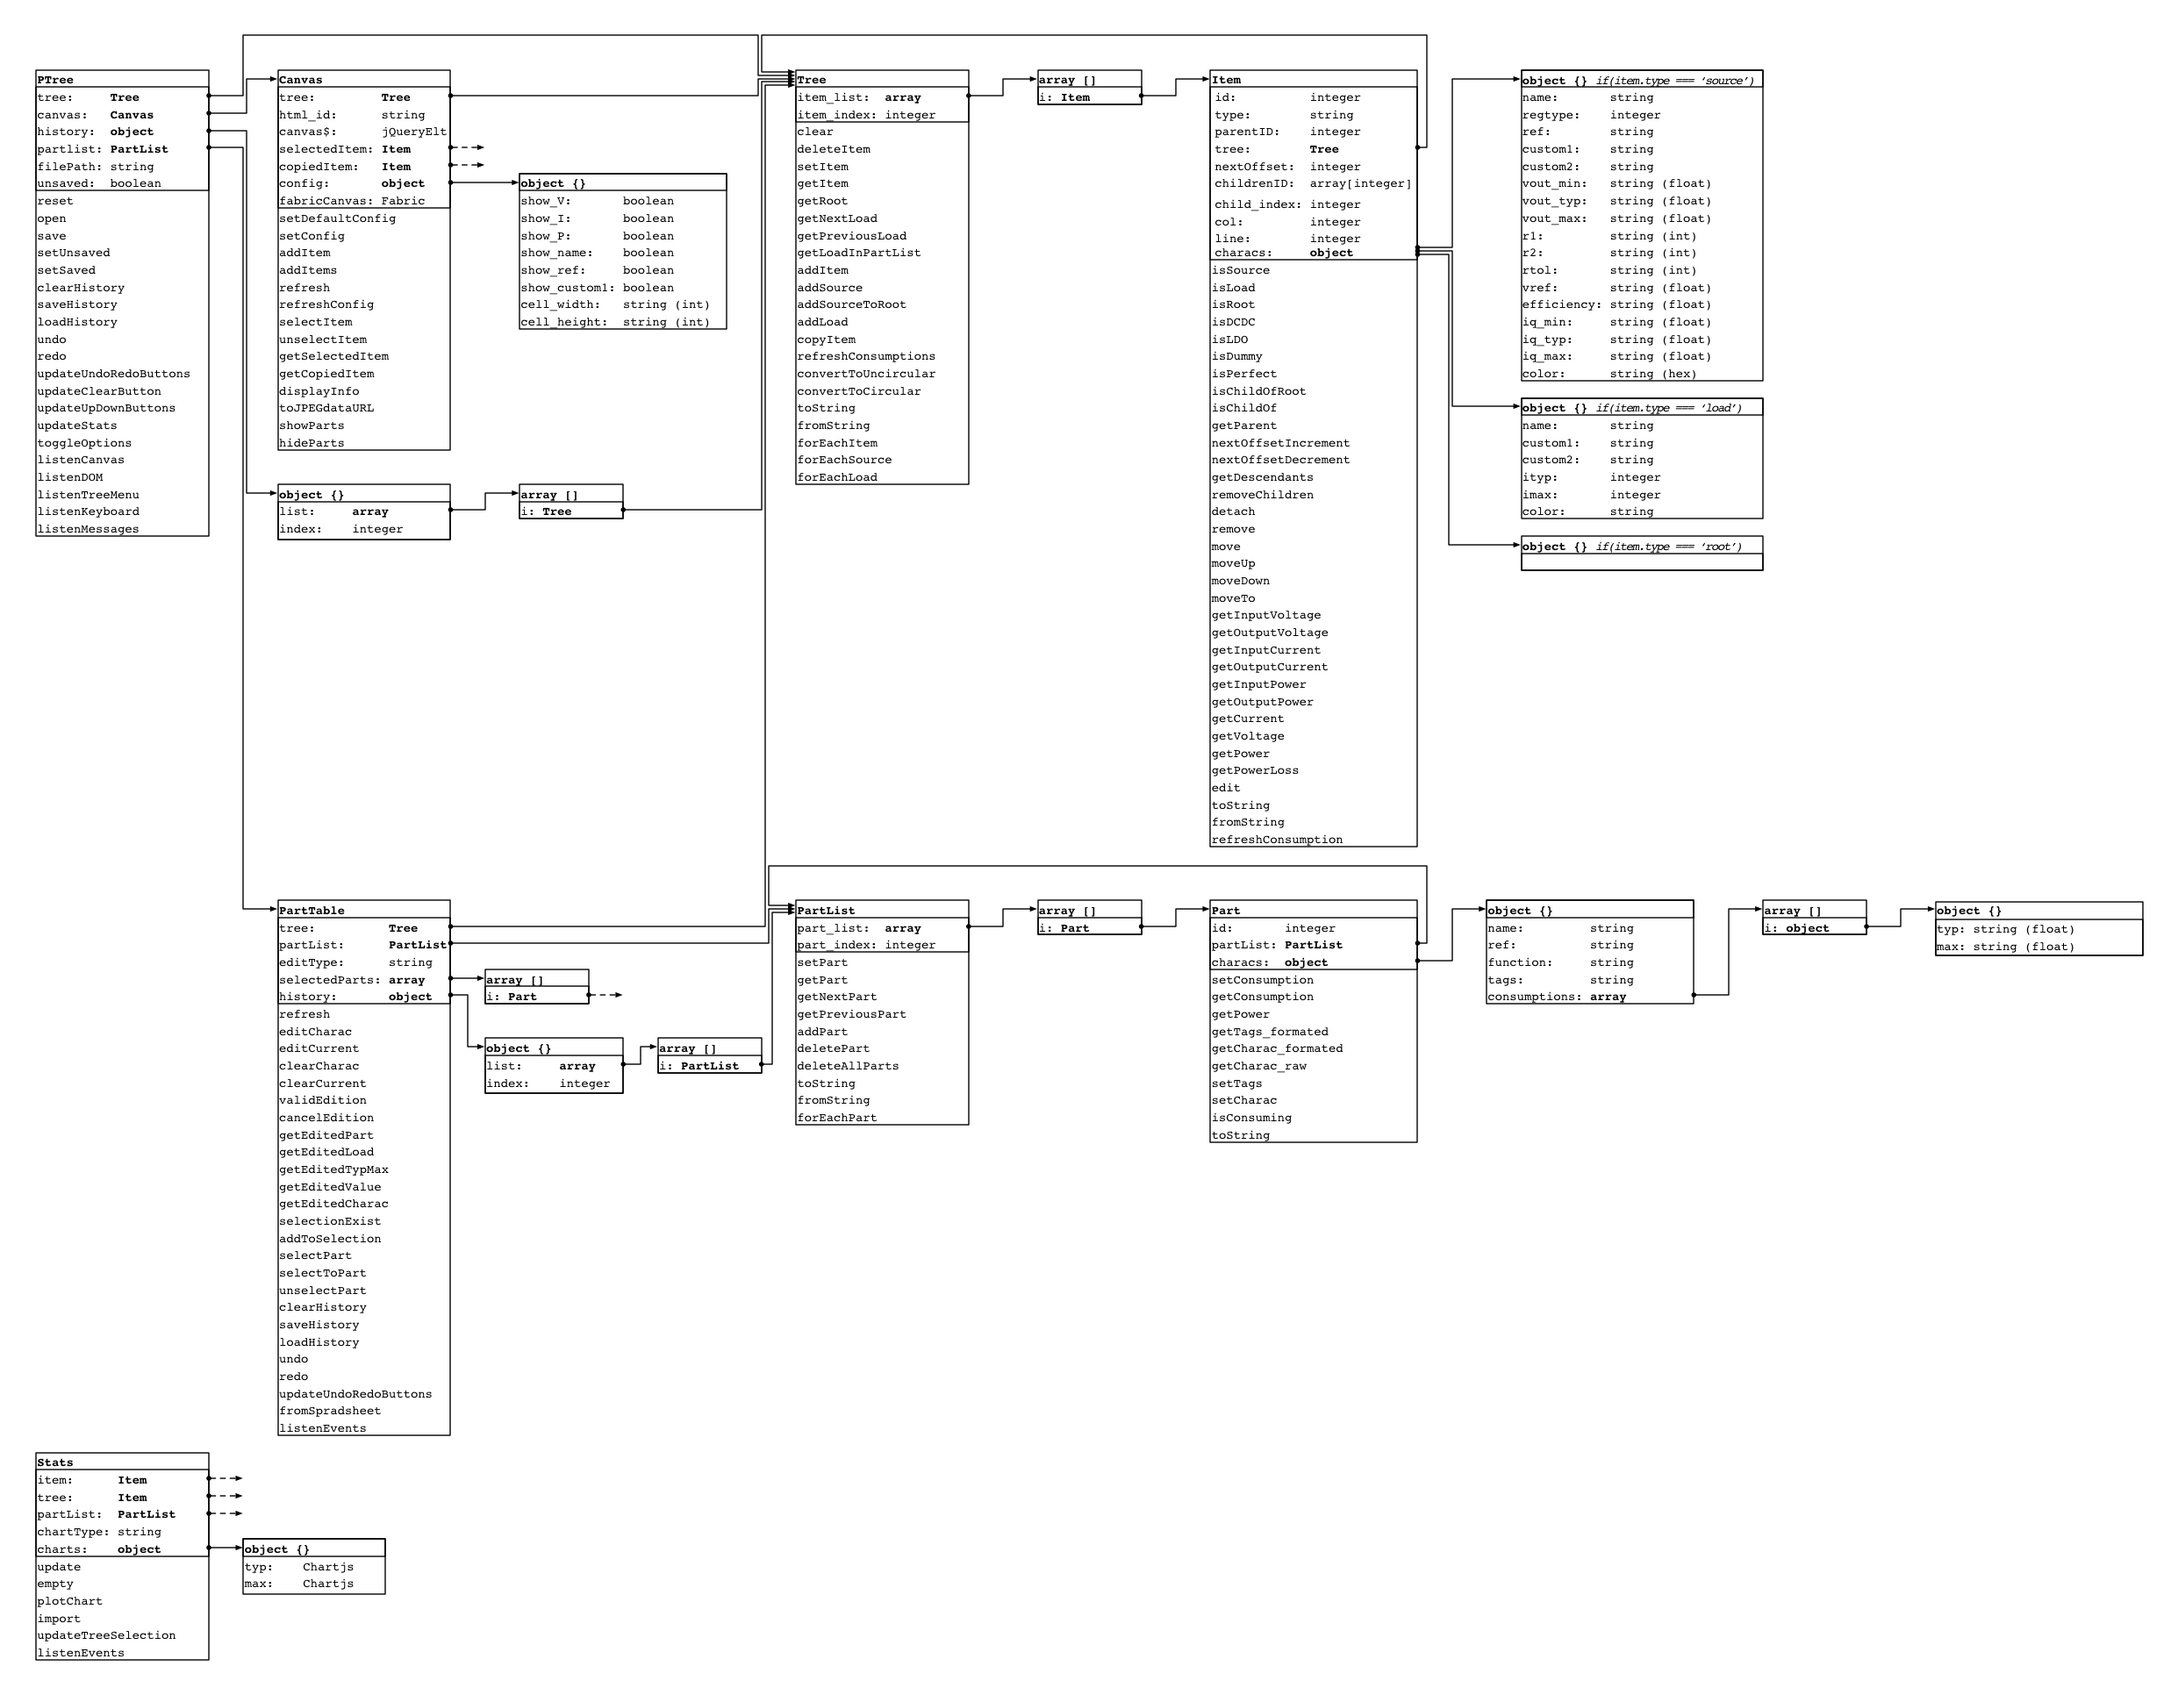
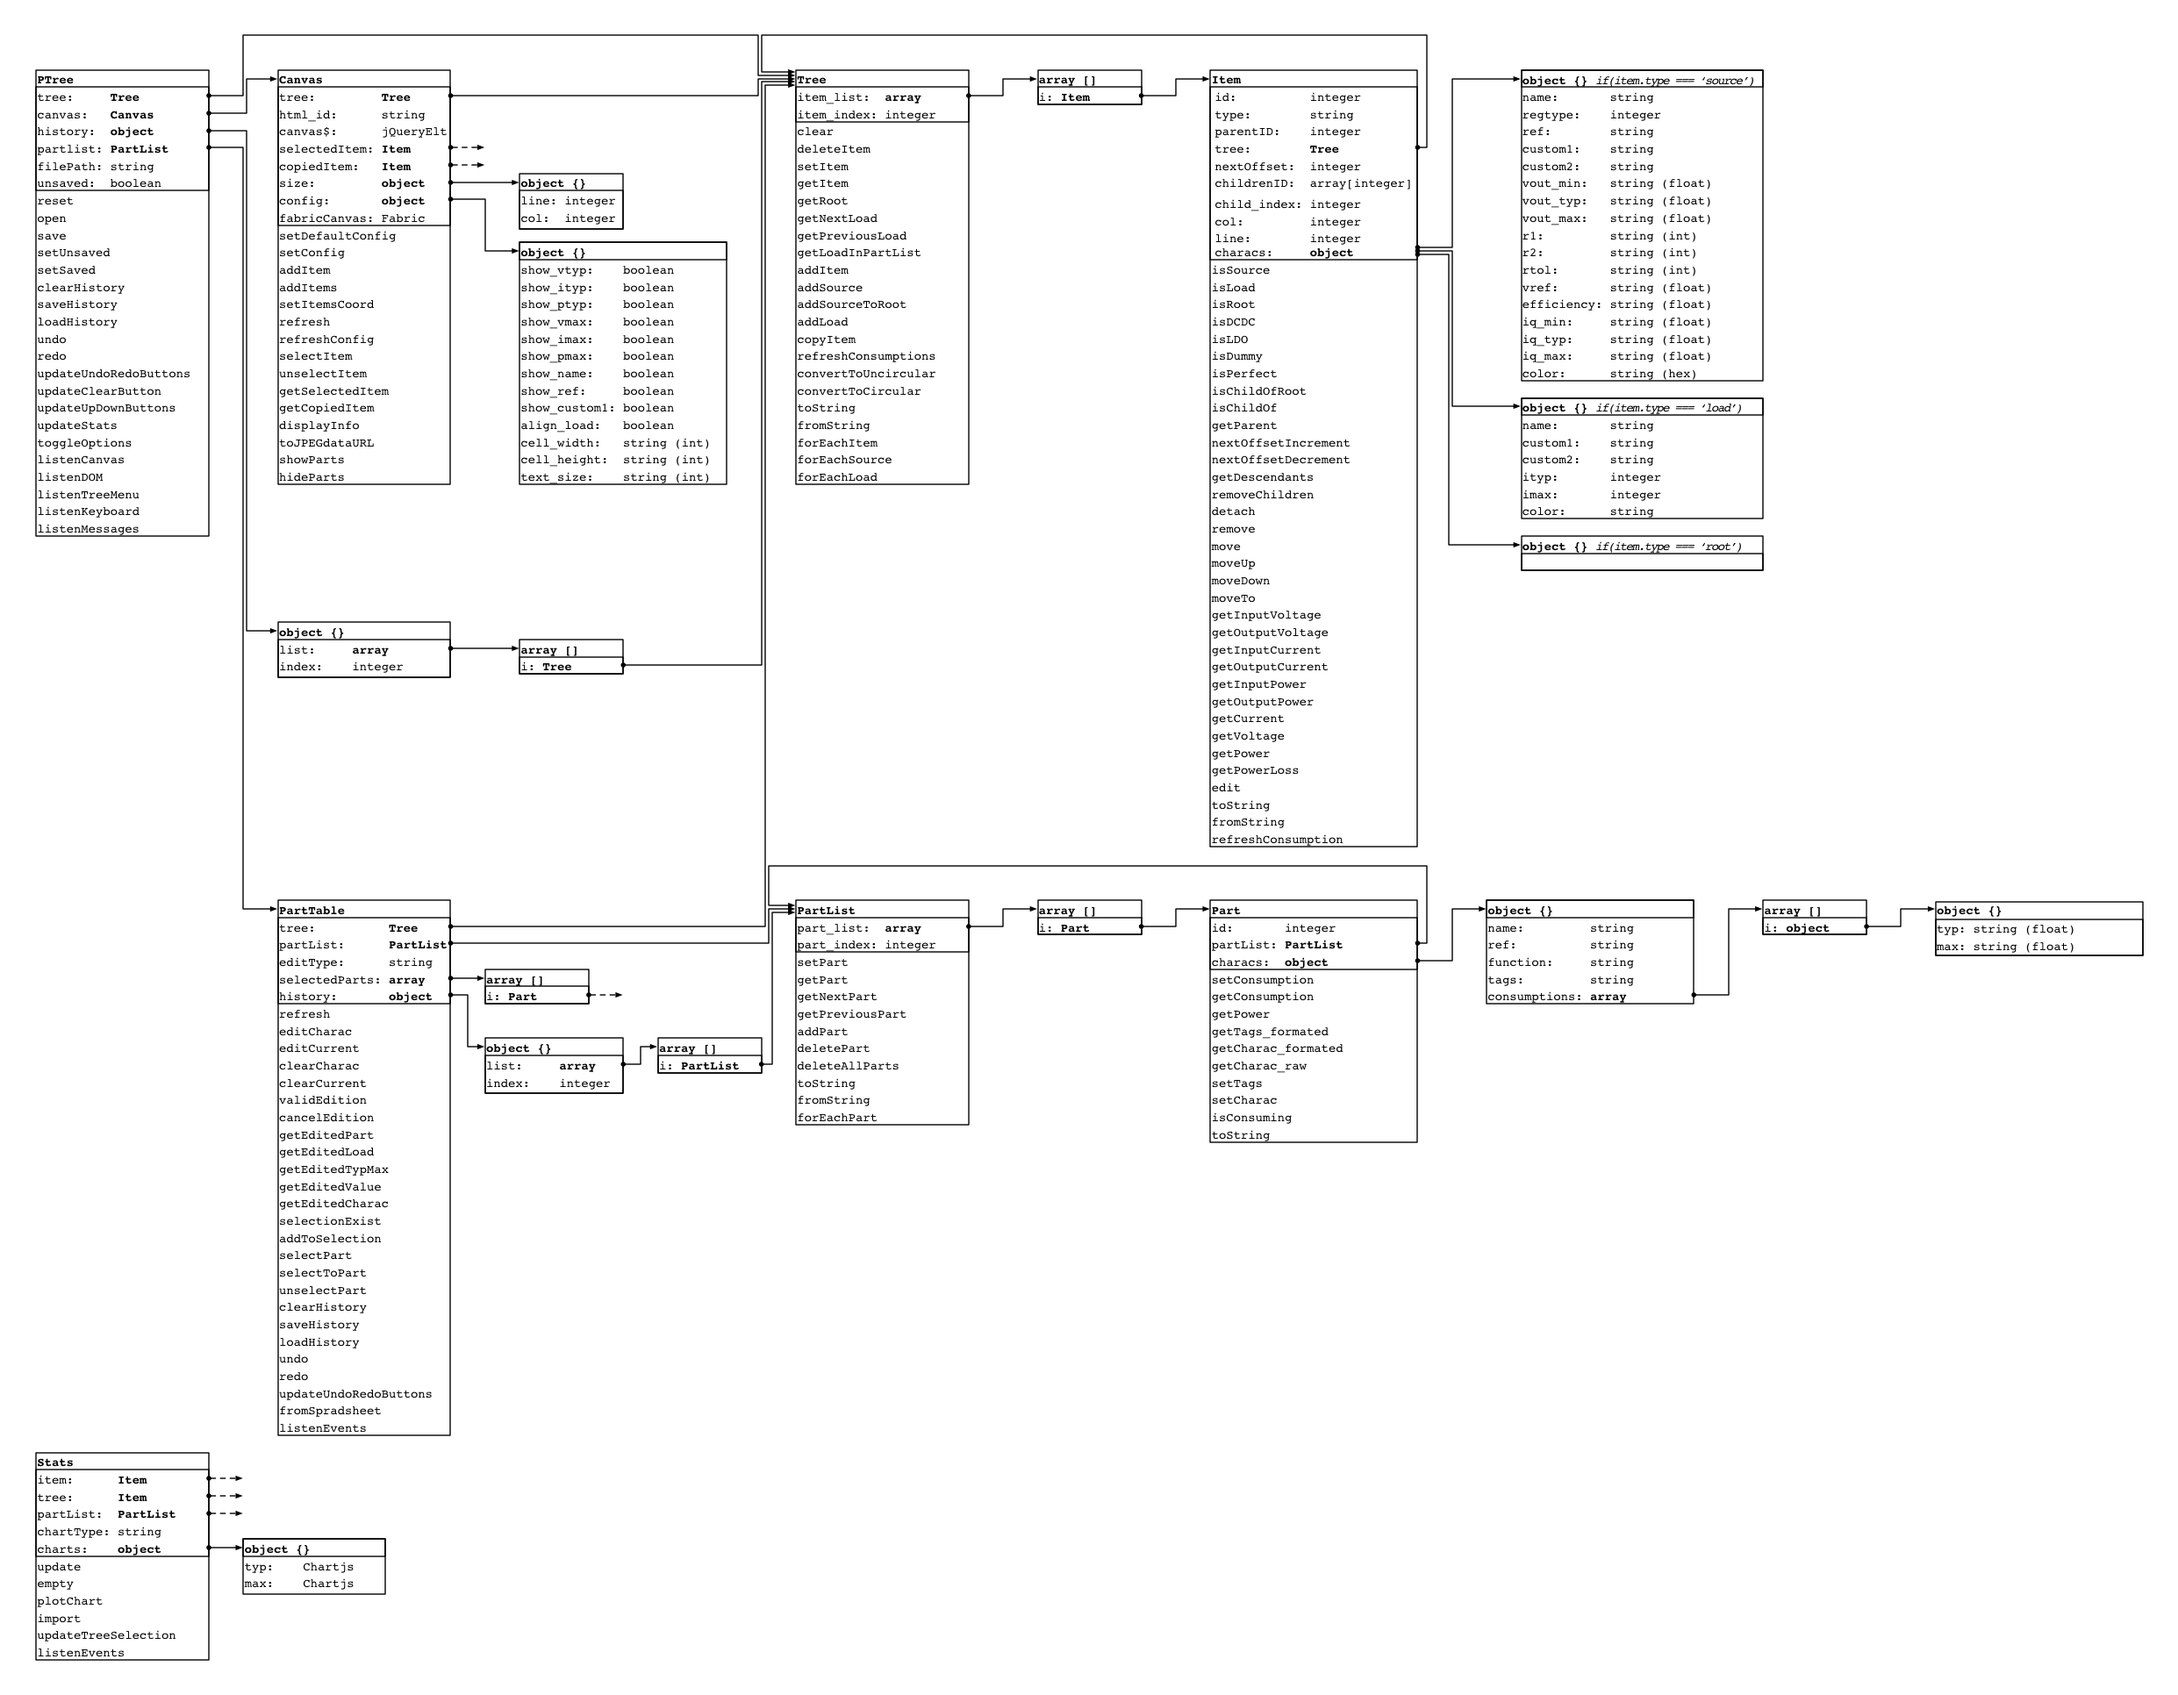
Vertical align loads (#33 )

diff --git a/js/obj.Canvas.js b/js/obj.Canvas.js
@@ -100,6 +100,7 @@ var Canvas = function(html_id, tree, partList) {
    this.canvas$      = $('#' + html_id);  // reference to the jquery object
    this.selectedItem = null;              // by default, no selected item
    this.copiedItem   = null;              // by default, no copied item
+   this.size         = {line:0,col:0};    // grid size, default is empty: 0,0
    this.config       = {};                // config will be set below
 
    // canvas main characs that will be updated by the user
@@ -125,6 +126,7 @@ Canvas.prototype.setDefaultConfig = function() {
       show_name    : true,
       show_ref     : true,
       show_custom1 : true,
+      align_load   : false,
       cell_width   : app_template.cell.width,
       cell_height  : app_template.cell.height,
       text_size    : app_template.text.size
@@ -160,37 +162,12 @@ Canvas.prototype.addItem = function(item) {
    var nodeNet_left  = app_template.nodeNet.left_coef * this.config.cell_width;
 
 
-   // --------------------------------------------------------------------------
-   // First, process the item itself
-
-   // init col & line as pure integer or coefficient (not pixels)
-   item.col  = 0;
-   item.line = 0;
-
-   // set the item coords if it has parent
-   if (null !== parent && undefined !== parent) {
-      item.col = parent.col + 1;
-
-      // if the item is the first child, its line is the same as its parent
-      if (0 === item.child_index) {
-         item.line = parent.line;
-      }
-      // else if it is not the first, its line is set according to the precedentChild
-      else {
-         var precedentChild = this.tree.getItem(parent.childrenID[item.child_index - 1]);
-         item.line = precedentChild.line + 1 + precedentChild.nextOffset;
-      }
-   }
-   else {
-      item.col = -1;
-   }
-
-
    // create a rectangle with the correct template
    // and add it to the canvas
    var itemRect = new fabric.Rect(fabric_template[item.type]);
+   let item_col = (this.config.align_load && item.isLoad()) ? this.size.col : item.col;
    itemRect.set({
-      left  : (item.col  * this.config.cell_width ) + app_template.canvas.margin_left,
+      left  : (item_col  * this.config.cell_width ) + app_template.canvas.margin_left,
       top   : (item.line * this.config.cell_height) + app_template.canvas.margin_top ,
       width : item_width,
       height: item_height,
@@ -283,8 +260,6 @@ Canvas.prototype.addItem = function(item) {
    }
 
 
-
-
    // --------------------------------------------------------------------------
    // Process the nets around the source
 
@@ -293,7 +268,7 @@ Canvas.prototype.addItem = function(item) {
    var height_error = (itemRect.get('height') - itemGroup.get('height') + 1) / 2;
 
    // if the item is a source and has children, process the child nets
-   if ('source' == item.type && item.childrenID.length > 0) {
+   if (item.isSource() && item.childrenID.length > 0) {
 
       // set the childNet to canvas at the correct coords
       var childNet = new fabric.Line([
@@ -307,12 +282,14 @@ Canvas.prototype.addItem = function(item) {
    }
 
    // set the parent net to canvas at the correct coords if it exist
-   if (null !== parent && 'root' != parent.type) {
+   if (!item.isRoot() && !item.isChildOfRoot()) {
+      let offset = (this.config.align_load && item.isLoad()) ? (this.size.col - parent.col -1) * this.config.cell_width : 0;
+
       // set the fabric item
       var parentNet = new fabric.Line([
          Math.round(itemGroup.get('left') - fabric_template.net.strokeWidth - width_error),
          Math.round(itemGroup.get('top' ) + item_height / 2 - fabric_template.net.strokeWidth / 2 - height_error),
-         Math.round(itemGroup.get('left') - (this.config.cell_width - nodeNet_left) - width_error),
+         Math.round(itemGroup.get('left') - (this.config.cell_width - nodeNet_left) - width_error - offset),
          Math.round(itemGroup.get('top' ) + item_height / 2 - fabric_template.net.strokeWidth / 2 - height_error),
       ], fabric_template.net);
       this.fabricCanvas.add(parentNet);
@@ -332,25 +309,6 @@ Canvas.prototype.addItem = function(item) {
          parentNode_net.sendToBack();
       }
    }
-
-
-   // --------------------------------------------------------------------------
-   // Resize the canvas : it mus be the same size as the window to trig unselections
-
-   // check if the item is outside the actual grid, and enlarge the grid if needed
-   if (item.col  >= this.fabricCanvas.col ) this.fabricCanvas.col  = item.col  + 1;
-   if (item.line >= this.fabricCanvas.line) this.fabricCanvas.line = item.line + 1;
-   // compute the minimum size of the canvas according to the lines/cols
-   var canvas_minwidth  = this.fabricCanvas.col  * this.config.cell_width;
-   var canvas_minheight = this.fabricCanvas.line * this.config.cell_height + app_template.canvas.margin_top + app_template.canvas.margin_bottom;
-   // compute the minimum size of the canvas according to the window
-   var canvas_minwidth2  = $(window).width()  - parseInt($('body').css('margin-left')); // - $('#canvas').offset().left;
-   var canvas_minheight2 = $(window).height() - parseInt($('body').css('margin-top' )); // - $('#canvas').offset().top;
-   // set the canvas size at either the grid or the window size
-   this.fabricCanvas.setDimensions({
-      'width' : (canvas_minwidth2  < canvas_minwidth ) ? canvas_minwidth  : canvas_minwidth2,
-      'height': (canvas_minheight2 < canvas_minheight) ? canvas_minheight : canvas_minheight2
-   });
 };
 
 
@@ -368,6 +326,50 @@ Canvas.prototype.addItems = function(item) {
    }
 };
 
+
+// compute the coordinate (line,col) of all items on the grid
+// also keep the max line and col as the canva size
+// this function is recursive, starting from the Root and continue with all items
+Canvas.prototype.setItemsCoord = function(item) {
+   // if item is not given, start with the root and reinit the size
+   if (undefined === item || item.isRoot()) {
+      this.size = {line:0,col:0};
+      item = this.tree.getRoot();
+      item.line = 0;
+      item.col  = -1;
+   }
+   // else, if it is any item
+   else {
+      let parent = item.getParent();
+
+      // the col of an item must be the parent col+1
+      item.col = parent.col + 1;
+
+      // if the item is the first child, its line is the same as its parent
+      if (0 === item.child_index) {
+         item.line = parent.line;
+      }
+      // else if it is not the first, its line is set according to the precedentChild
+      else {
+         let precedentChild = this.tree.getItem(parent.childrenID[item.child_index - 1]);
+         item.line = precedentChild.line + 1 + precedentChild.nextOffset;
+      }
+
+      // remind if this line is the max of the canvas
+      if(item.line > this.size.line) this.size.line = item.line;
+      // remind if this col is the max of the canvas
+      // also, if the max col is a source and the load must be aligned, add +1 to keep extra space for the cols
+      if(item.col  > this.size.col ) this.size.col  = (this.config.align_load && item.isSource()) ? item.col + 1 : item.col ;
+   }
+
+   // continue, recursively, with all the item children
+   for (let childID of item.childrenID) {
+      var child = item.tree.getItem(childID);
+      this.setItemsCoord(child);
+   }
+};
+
+
 // clean the canvas and reprint everything
 Canvas.prototype.refresh = function() {
    // save the scroll position
@@ -379,9 +381,29 @@ Canvas.prototype.refresh = function() {
    this.fabricCanvas.line = 0;
    this.fabricCanvas.col  = 0;
    this.fabricCanvas.fabric_obj = [];
+
+   // compute the coords of all items
+   this.setItemsCoord();
+
    // reprint the canvas by adding the root and all its children
    this.addItems(this.tree.getRoot());
+
+   // compute the minimum size of the canvas according to the lines/cols
+   var canvas_minwidth  = (this.size.col+1)  * this.config.cell_width;
+   var canvas_minheight = (this.size.line+1) * this.config.cell_height + app_template.canvas.margin_top + app_template.canvas.margin_bottom;
+   // compute the minimum size of the canvas according to the window
+   var canvas_minwidth2  = $(window).width()  - parseInt($('body').css('margin-left')); // - $('#canvas').offset().left;
+   var canvas_minheight2 = $(window).height() - parseInt($('body').css('margin-top' )); // - $('#canvas').offset().top;
+   // set the canvas size at either the grid or the window size
+   this.fabricCanvas.setDimensions({
+      'width' : (canvas_minwidth2  < canvas_minwidth ) ? canvas_minwidth  : canvas_minwidth2,
+      'height': (canvas_minheight2 < canvas_minheight) ? canvas_minheight : canvas_minheight2
+   });
+
+
+   // render the Fabric item
    this.fabricCanvas.renderAll();
+
    // reselect the item if it has been deselected
    if (null !== selected_item) this.selectItem(selected_item);
    // set the scroll as saved before canvas modifications

diff --git a/html/tree.html b/html/tree.html
@@ -201,6 +201,12 @@
                   Custom Field
                </label>
             </p>
+            <div class="config">
+               <label for="config_alignload">
+                  <input id="config_alignload" data-config="align_load" type="checkbox" class="config_input config_checkbox" />
+                  Vertical align loads
+               </label>
+            </div>
             <p class="config">
                <label for="config_itemwidth">
                   Item width
